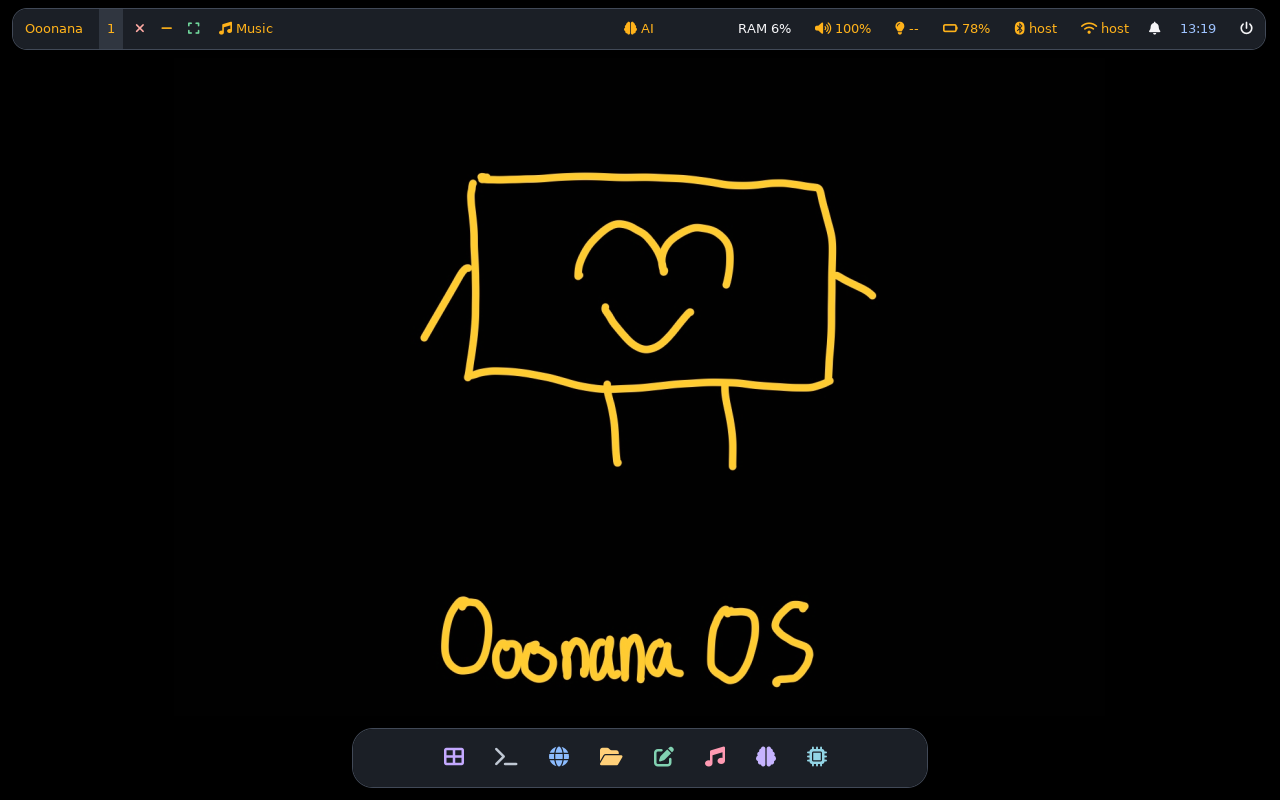
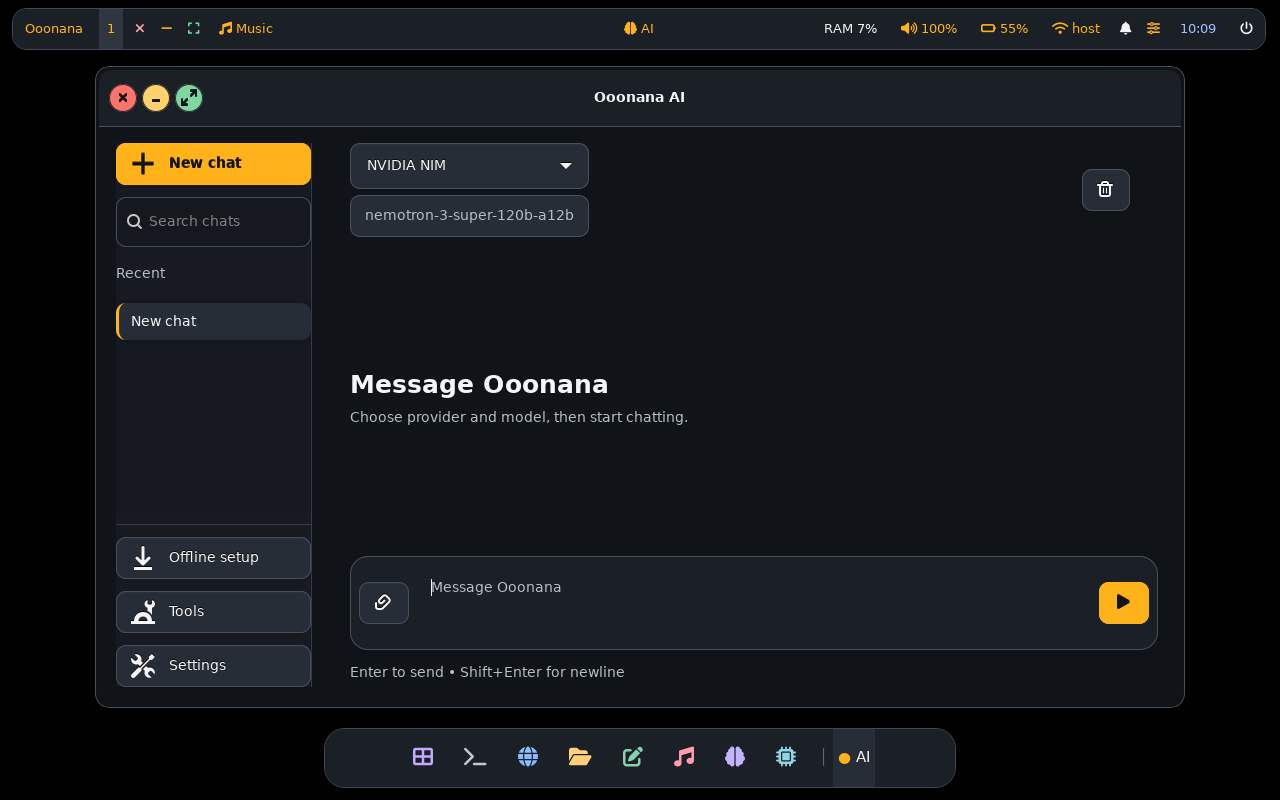
Refresh README screenshot from repaired WSL desktop

diff --git a/README.md b/README.md
@@ -17,7 +17,7 @@ Ooonana is not a Debian, Ubuntu, Alpine, or Arch derivative. It uses upstream Li
 
 ![Ooonana OS core 0.9.5 preview with left music, centered AI, notification bell, and app dock](docs/assets/ooonana-full-i3-desktop.png)
 
-Earlier core 0.9.5 working-preview capture from nested WSL i3, before the GUI polish below. Cursor is excluded. Complete desktop and physical USB visuals still need a fresh image build/test; native GTK previews below show current app patches.
+Latest core 0.9.5 working desktop capture from nested WSL i3, refreshed after GTK/XDG startup repairs. Music sits left, AI stays centered, status controls align right, and dock tracks running windows. Cursor is excluded. Audio playback was not tested. Physical USB visuals still require a newly built image.
 
 Latest GUI polish previews, rendered from real GTK widgets in an isolated virtual display with sample data:
 
